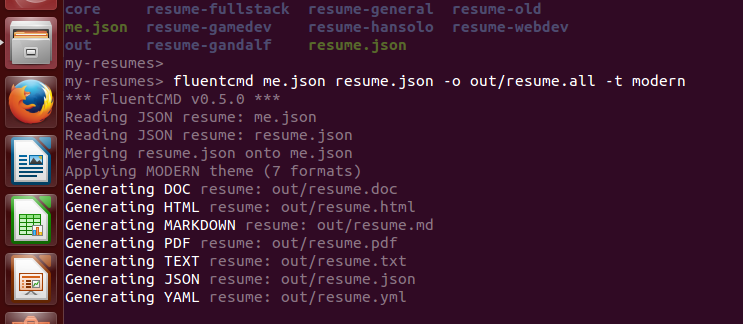
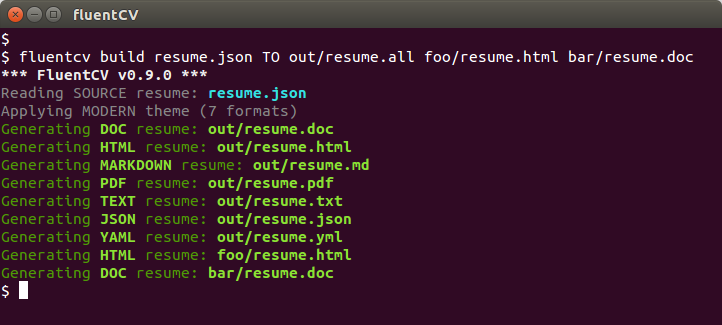
Update README.

diff --git a/README.md b/README.md
@@ -2,24 +2,90 @@ fluentCV
 ========
 *Generate beautiful, targeted resumes from your command line or shell.*
 
-FluentCV is a **hackable, data-driven, dev-friendly resume authoring tool** with support for HTML, Markdown, Word, PDF, YAML, plain text, smoke signal, carrier pigeon, and other resume formats.
-
 ![](assets/fluentcv_cli_ubuntu.png)
 
-Looking for a desktop GUI version with pretty timelines and graphs? Check out [FluentCV Desktop][7].
+FluentCV is a Swiss Army knife for resumes and CVs. Use it to:
+
+1. **Generate** polished multiformat resumes in HTML, Word, Markdown, PDF, plain
+text, JSON, and YAML formats&mdash;without violating DRY.
+2. **Convert** resumes between [FRESH][fresca] and [JSON Resume][6] formats.
+3. **Validate** resumes against either format.
+
+Install it with NPM:
+
+```bash
+[sudo] npm install fluentcv -g
+```
+
+Note: for PDF generation you'll need to install a copy of [wkhtmltopdf][3] for
+your platform.
 
 ## Features
 
 - Runs on OS X, Linux, and Windows.
 - Store your resume data as a durable, versionable JSON or YAML document.
-- Generate polished resumes in multiple formats without violating DRY.
+- Generate polished resumes in multiple formats without violating [DRY][dry].
 - Output to HTML, PDF, Markdown, MS Word, JSON, YAML, plain text, or XML.
-- Compatible with [FRESH][fresh], [JSON Resume][6], [FRESCA][fresca], and [FCV Desktop][7].
+- Compatible with [FRESH][fresh], [JSON Resume][6], [FRESCA][fresca], and
+[FCV Desktop][7].
 - Validate resumes against the FRESH or JSON Resume schema.
 - Support for multiple input and output resumes.
 - Free and open-source through the MIT license.
 - Forthcoming: StackOverflow and LinkedIn support.
-- Forthcoming: More themes.
+- Forthcoming: More commands and themes.
+
+Looking for a desktop GUI version for Windows / OS X / Linux? Check out
+[FluentCV Desktop][7].
+
+## Getting Started
+
+To use FluentCV you'll need to create a valid resume in either [FRESH][fresca]
+or [JSON Resume][6] format. Then you can start using the command line tool.
+There are three commands you should be aware of:
+
+- `build` generates resumes in HTML, Word, Markdown, PDF, and other formats. Use
+it when you need to submit, upload, print, or email resumes in specific formats.
+
+    ```bash
+    # fluentcv BUILD <INPUTS> TO <OUTPUTS> [-t THEME]
+    fluentcv BUILD resume.json TO out/resume.all
+    fluentcv BUILD r1.json r2.json TO out/rez.html out/rez.md foo/rez.all
+    ```
+
+- `convert` converts your source resume between FRESH and JSON Resume formats.
+Use it to convert between the two formats to take advantage of tools and services.
+
+    ```bash
+    # fluentcv CONVERT <INPUTS> TO <OUTPUTS>
+    fluentcv CONVERT resume.json TO resume-jrs.json
+    fluentcv CONVERT 1.json 2.json 3.json TO out/1.json out/2.json out/3.json
+    ```
+
+- `validate` validates the specified resume against either the FRESH or JSON
+Resume schema. Use it to make sure your resume data is sufficient and complete.
+
+    ```bash
+    # fluentcv VALIDATE <INPUTS>
+    fluentcv VALIDATE resume.json
+    fluentcv VALIDATE r1.json r2.json r3.json
+    ```
+
+## Supported Output Formats
+
+FluentCV supports these output formats:
+
+Output Format  | Ext | Notes
+------------- | - | -------------
+HTML | .html | A standard HTML 5 + CSS resume format that can be viewed in a browser, deployed to a website, etc.
+Markdown | .md | A structured Markdown document that can be used as-is or used to generate HTML.
+MS Word | .doc | A Microsoft Word office document in 2003 format for widest compatibility.
+Adobe Acrobat (PDF) | .pdf | A binary PDF document driven by an HTML theme.
+plain text | .txt | A formatted plain text document appropriate for emails or as a source for copy-paste.
+JSON | .json | A JSON representation of the resume. Can be passed back into FluentCV as an input.
+YAML | .yml | A YAML representation of the resume. Can be passed back into FluentCV as an input.
+RTF | .rtf | Forthcoming.
+Textile | .textile | Forthcoming.
+image | .png, .bmp | Forthcoming.
 
 ## Install
 
@@ -31,29 +97,32 @@ FluentCV requires a recent version of [Node.js][4] and [NPM][5]. Then:
 
 ## Use
 
-Assuming you've got a JSON-formatted resume handy, generating resumes in different formats and combinations easy. Just run:
+Assuming you've got a JSON-formatted resume handy, generating resumes in
+different formats and combinations easy. Just run:
 
 ```bash
-fluentcv generate [inputs] [outputs] [-t theme].
+fluentcv BUILD <INPUTS> <OUTPUTS> [-t theme].
 ```
 
-Where `[inputs]` is one or more .json resume files, separated by spaces; `[outputs]` is one or more destination resumes, each prefaced with the `-o` option; and `[theme]` is the desired theme. For example:
+Where `<INPUTS>` is one or more .json resume files, separated by spaces;
+`<OUTPUTS>` is one or more destination resumes, and `<THEME>` is the desired
+theme (default to Modern). For example:
 
 ```bash
 # Generate all resume formats (HTML, PDF, DOC, TXT, YML, etc.)
-fluentcv generate resume.json -o out/resume.all -t modern
+fluentcv build resume.json -o out/resume.all -t modern
 
 # Generate a specific resume format
-fluentcv generate resume.json -o out/resume.html
-fluentcv generate resume.json -o out/resume.pdf
-fluentcv generate resume.json -o out/resume.md
-fluentcv generate resume.json -o out/resume.doc
-fluentcv generate resume.json -o out/resume.json
-fluentcv generate resume.json -o out/resume.txt
-fluentcv generate resume.json -o out/resume.yml
+fluentcv build resume.json TO out/resume.html
+fluentcv build resume.json TO out/resume.pdf
+fluentcv build resume.json TO out/resume.md
+fluentcv build resume.json TO out/resume.doc
+fluentcv build resume.json TO out/resume.json
+fluentcv build resume.json TO out/resume.txt
+fluentcv build resume.json TO out/resume.yml
 
 # Specify 2 inputs and 3 outputs
-fluentcv generate in1.json in2.json -o out.html -o out.doc -o out.pdf
+fluentcv build in1.json in2.json TO out.html out.doc out.pdf
 ```
 
 You should see something to the effect of:
@@ -78,8 +147,8 @@ Generating YAML resume: out/resume.yml
 You can specify a predefined or custom theme via the optional `-t` parameter. For a predefined theme, include the theme name. For a custom theme, include the path to the custom theme's folder.
 
 ```bash
-fluentcv generate resume.json -t modern
-fluentcv generate resume.json -t ~/foo/bar/my-custom-theme/
+fluentcv build resume.json -t modern
+fluentcv build resume.json -t ~/foo/bar/my-custom-theme/
 ```
 
 As of v0.9.0, available predefined themes are `modern`, `minimist`, and `hello-world`, and `compact`.
@@ -90,13 +159,13 @@ You can **merge multiple resumes together** by specifying them in order from mos
 
 ```bash
 # Merge specific.json onto base.json and generate all formats
-fluentcv generate base.json specific.json -o resume.all
+fluentcv build base.json specific.json -o resume.all
 ```
 
 This can be useful for overriding a base (generic) resume with information from a specific (targeted) resume. For example, you might override your generic catch-all "software developer" resume with specific details from your targeted "game developer" resume, or combine two partial resumes into a "complete" resume. Merging follows conventional [extend()][9]-style behavior and there's no arbitrary limit to how many resumes you can merge:
 
 ```bash
-fluentcv generate in1.json in2.json in3.json in4.json -o out.html -o out.doc
+fluentcv build in1.json in2.json in3.json in4.json TO out.html out.doc
 Reading JSON resume: in1.json
 Reading JSON resume: in2.json
 Reading JSON resume: in3.json
@@ -112,14 +181,14 @@ You can specify **multiple output targets** and FluentCV will build them:
 
 ```bash
 # Generate out1.doc, out1.pdf, and foo.txt from me.json.
-fluentcv generate me.json -o out1.doc -o out1.pdf -o foo.txt
+fluentcv build me.json -o out1.doc -o out1.pdf -o foo.txt
 ```
 
 You can also omit the output file(s) and/or theme completely:
 
 ```bash
 # Equivalent to "fluentcv resume.json resume.all -t modern"
-fluentcv generate resume.json
+fluentcv build resume.json
 ```
 
 ### Using .all
@@ -128,7 +197,7 @@ The special `.all` extension tells FluentCV to generate all supported output for
 
 ```bash
 # Generate all resume formats (HTML, PDF, DOC, TXT, etc.)
-fluentcv generate me.json -o out/resume.all
+fluentcv build me.json -o out/resume.all
 ```
 
 ..tells FluentCV to read `me.json` and generate `out/resume.md`, `out/resume.doc`, `out/resume.html`, `out/resume.txt`, `out/resume.pdf`, and `out/resume.json`.
@@ -148,13 +217,29 @@ FluentCV will validate each specified resume in turn:
 
 ```bash
 *** FluentCV v0.9.0 ***
-Validating JSON resume: resume.json (INVALID)
-Validating JSON resume: resume.json (VALID)
+Validating JSON resume: resumeA.json (INVALID)
+Validating JSON resume: resumeB.json (VALID)
 ```
+
+### Converting
+
+FluentCV can convert between the [FRESH][fresca] and [JSON Resume][6] formats.
+Just run:
+
+```bash
+fluentcv CONVERT <INPUTS> <OUTPUTS>
+```
+
+where <INPUTS> is one or more resumes in FRESH or JSON Resume format, and
+<OUTPUTS> is a corresponding list of output file names. FluentCV will autodetect
+the format (FRESH or JRS) of each input resume and convert it to the other
+format (JRS or FRESH).
 
 ### Prettifying
 
-FluentCV applies [js-beautify][10]-style HTML prettification by default to HTML-formatted resumes. To disable prettification, the `--nopretty` or `-n` flag can be used:
+FluentCV applies [js-beautify][10]-style HTML prettification by default to
+HTML-formatted resumes. To disable prettification, the `--nopretty` or `-n` flag
+can be used:
 
 ```bash
 fluentcv generate resume.json out.all --nopretty
@@ -185,3 +270,4 @@ MIT. Go crazy. See [LICENSE.md][1] for details.
 [10]: https://github.com/beautify-web/js-beautify
 [fresh]: https://github.com/fluentdesk/FRESH
 [fresca]: https://github.com/fluentdesk/FRESCA
+[dry]: https://en.wikipedia.org/wiki/Don%27t_repeat_yourself
